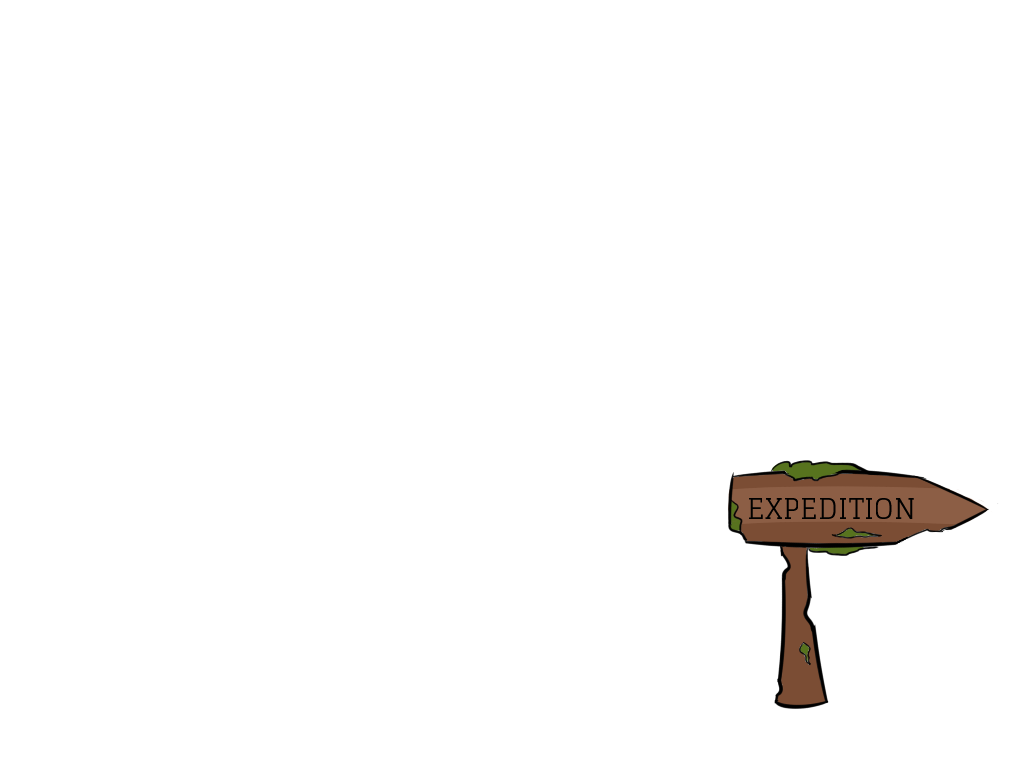
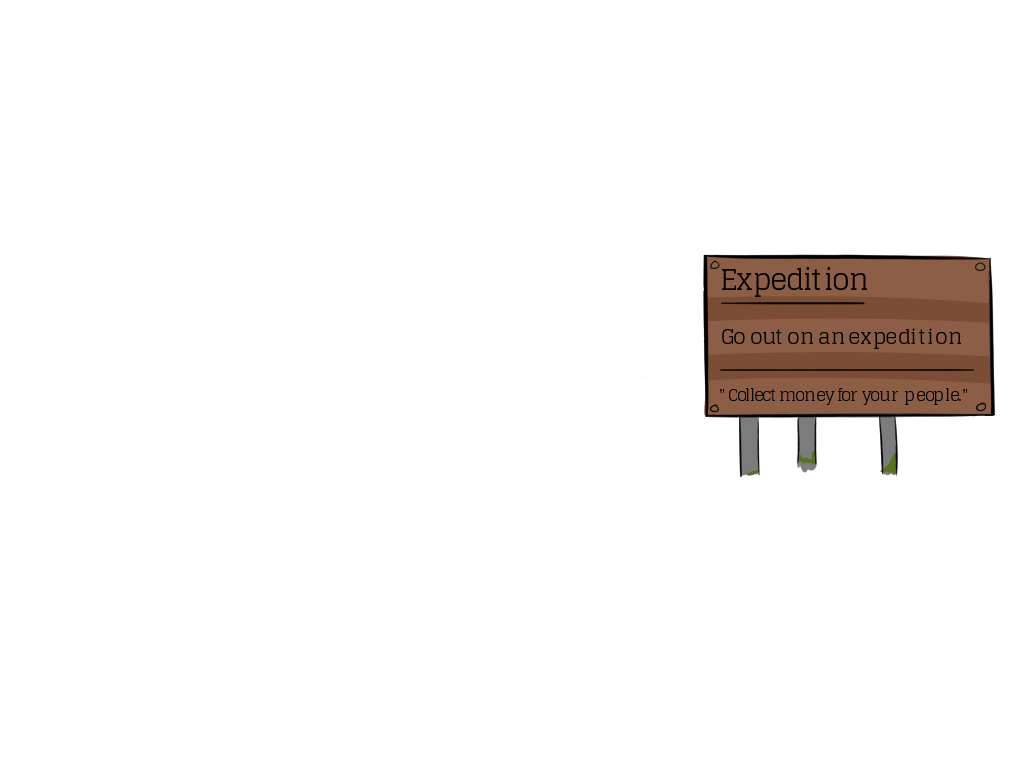
buttons design include

Changed region(s): [[0.6875, 0.3125, 0.9688, 0.9375]]

diff --git a/village.py b/village.py
@@ -37,7 +37,7 @@ class village(object):
     def minusAir(self):
         self.timerAir = False
         if self.air > 0:
-            self.air -= round(self.population/5)
+            self.air -= int(self.population/5)
         else:
             self.lose = True
 
@@ -47,7 +47,7 @@ class village(object):
             self.population += 1
     
     def plusGold(self):
-        self.gold += round(self.population/4)
+        self.gold += int(self.population/4)
         self.timerGold = False
 
     ###### FUNCTIONS ######
@@ -80,19 +80,17 @@ class village(object):
                 img = pygame.image.load("images/air_purifier_sign.png")
                 self.gameDisplay.blit(img, (0, 0))
 
-            elif action == "menu":
-                img = pygame.image.load("images/air_purifier_sign.png")
-                self.gameDisplay.blit(img, (0, 0))
-                
             elif action == "upgrades":
-                img = pygame.image.load("images/air_purifier_sign.png")
+                img = pygame.image.load("images/town_upgrades_sign.png")
                 self.gameDisplay.blit(img, (0, 0))
 
             elif action == "skills":
-                img = pygame.image.load("images/air_purifier_sign.png")
+                img = pygame.image.load("images/skills_sign.png")
                 self.gameDisplay.blit(img, (0, 0))
 
-            #elif action == "expedition":
+            elif action == "expedition":
+                img = pygame.image.load("images/expedition_sign.png")
+                self.gameDisplay.blit(img, (0, 0))
 
             elif action == "boots":
                 img = pygame.image.load("images/boots_sign.png")
@@ -173,12 +171,12 @@ class village(object):
     def draw(self):
         """Affiche le menu du village"""
 
-        self.gameDisplay.fill(white) # a changer par l'image de background
-
-        ## Titre en haut
-        self.textDisplay("Village", black, 30, (self.screenWidth/2), (self.screenHeight/15))
+        img = pygame.image.load("images/background_image.png")
+        self.gameDisplay.blit(img, (0, 0))
 
         ####### RESSOURCES #######
+        img = pygame.image.load("images/resources.png")
+        self.gameDisplay.blit(img, (0, 0))
         ## Air
         self.textDisplay("Air " + str(self.air) + " / " + str(self.airTank), black, 30, 100, 20)
 
@@ -186,28 +184,30 @@ class village(object):
         self.textDisplay("Gold " + str(self.gold), black, 30, 85, 55)
 
         ## Population
+        img = pygame.image.load("images/population.png")
+        self.gameDisplay.blit(img, (0, 0))
         self.textDisplay("Population " + str(self.population) + " / " + str(self.populationTank), black, 30, 870, 20) 
         
         ####### 
 
-        ####### CONVERT GOLD TO AIR #######
-        img = pygame.image.load("images/air_converter.png")
+        ####### GENERAL ####### 
+        img = pygame.image.load("images/town_name.png")
         self.gameDisplay.blit(img, (0, 0))
-        img = pygame.image.load("images/expedition_sign.png")
-        self.gameDisplay.blit(img, (0, 0))
+        #######
 
-        x = 80 
-        y = 432
+        ####### CONVERT GOLD TO AIR #######
+        x = 96 
+        y = 430
         buttonWidth = 192
         buttonHeight = 32
         y2 = y+(buttonHeight+16)
         y3 = y+(buttonHeight+16)*2
 
-        img = pygame.image.load("images/gold.png")
-        self.gameDisplay.blit(img, (85, 352))
+        #img = pygame.image.load("images/gold.png")
+        #self.gameDisplay.blit(img, (85, 352))
 
-        img = pygame.image.load("images/airBottle.png")
-        self.gameDisplay.blit(img, (180, 352))
+        #img = pygame.image.load("images/airBottle.png")
+        #self.gameDisplay.blit(img, (180, 352))
 
         self.button(x, y, buttonWidth, buttonHeight, green, bright_green, "goldToAir1")
         self.button(x, y2, buttonWidth, buttonHeight, green, bright_green, "goldToAir10")
@@ -225,13 +225,16 @@ class village(object):
             self.button(x, y2, buttonWidth, buttonHeight, red, red)
             self.button(x, y3, buttonWidth, buttonHeight, red, red)
 
+        img = pygame.image.load("images/air_converter.png")
+        self.gameDisplay.blit(img, (0, 0))
+
         self.textDisplay("500 -> 1", black, 20, (x+(buttonWidth/2)), (y+(buttonHeight/2))) 
         self.textDisplay("5000 -> 10", black, 20, (x+(buttonWidth/2)), (y2+(buttonHeight/2))) 
-        self.textDisplay("MAX", black, 20, (x+(buttonWidth/2)), (y3+(buttonHeight/2))) 
+        self.textDisplay("MAX", black, 20, (x+(buttonWidth/2)), (y3+(buttonHeight/2)))
         #######
 
         ####### SHOP UPGRADE #######
-        x = 400
+        x = 416
         y = 320
         buttonWidth = 224
         buttonHeight = 80
@@ -239,55 +242,59 @@ class village(object):
         y3 = y+(buttonHeight+32)*2
 
         if self.menu:
+            self.button(x, y2, buttonWidth, buttonHeight, green, bright_green, "upgrades")
+            self.textDisplay("Town upgrades", black, 20, (x+(buttonWidth/2)), (y+(buttonHeight/2)) ) 
+            
+            self.button(x, y, buttonWidth, buttonHeight, green, bright_green, "skills")
+            self.textDisplay("Skills", black, 20, (x+(buttonWidth/2)), (y2+(buttonHeight/2)) )
+
             img = pygame.image.load("images/town_hall.png")
             self.gameDisplay.blit(img, (0, 0))
 
-            self.button(x, y, buttonWidth, buttonHeight, green, bright_green, "upgrades")
-            self.textDisplay("Town upgrades", black, 20, (x+(buttonWidth/2)), (y+(buttonHeight/2)) ) 
-            
-            self.button(x, y2, buttonWidth, buttonHeight, green, bright_green, "skills")
-            self.textDisplay("Skills", black, 20, (x+(buttonWidth/2)), (y2+(buttonHeight/2)) )
-
         elif self.upgrades:
-            img = pygame.image.load("images/town_upgrades.png")
-            self.gameDisplay.blit(img, (0, 0))
-
-            self.button(x-48, y-64, 32, 32, (200, 200, 200), (100, 100, 100), "menu")
+            self.button(388, 222, 61, 66, (200, 200, 200), (100, 100, 100), "menu")
 
             self.button(x, y, buttonWidth, buttonHeight, green, bright_green, "house")
             if self.gold < PRICE_HOUSE:
                 self.button(x, y, buttonWidth, buttonHeight, (100, 100, 100), (100, 100, 100) )
             self.textDisplay("House (-2000)", black, 20, (x+(buttonWidth/2)), (y+(buttonHeight/3)) )
 
-            self.button(x, y2, buttonWidth, buttonHeight, green, bright_green, "purifier")
+            self.button(x, y3, buttonWidth, buttonHeight, green, bright_green, "purifier")
             if self.gold < PRICE_PURIFIER:
-                self.button(x, y2, buttonWidth, buttonHeight, (100, 100, 100), (100, 100, 100) )
+                self.button(x, y3, buttonWidth, buttonHeight, (100, 100, 100), (100, 100, 100) )
             self.textDisplay("Air purifier", black, 20, (x+(buttonWidth/2)), (y2+(buttonHeight/3)) )
 
-            #### FAIRE LE AIR TANK ####
-            self.button(x, y3, buttonWidth, buttonHeight, green, bright_green, "airTank")
+            self.button(x, y2, buttonWidth, buttonHeight, green, bright_green, "airTank")
             if self.gold < PRICE_AIR_TANK:
-                self.button(x, y3, buttonWidth, buttonHeight, (100, 100, 100), (100, 100, 100) )
+                self.button(x, y2, buttonWidth, buttonHeight, (100, 100, 100), (100, 100, 100) )
             self.textDisplay("Air tank", black, 20, (x+(buttonWidth/2)), (y3+(buttonHeight/3)) )
 
-        elif self.skills:
-            img = pygame.image.load("images/skills.png")
+            img = pygame.image.load("images/town_upgrades.png")
             self.gameDisplay.blit(img, (0, 0))
 
-            self.button(x-48, y-64, 32, 32, (200, 200, 200), (100, 100, 100), "menu")
+        elif self.skills:
+            self.button(388, 222, 61, 66, (200, 200, 200), (100, 100, 100), "menu")
 
             self.button(x, y, buttonWidth, buttonHeight, green, bright_green, "boots")
             self.textDisplay("Courir", black, 20, (x+(buttonWidth/2)), (y+(buttonHeight/3)) )
 
-            self.button(x, y2, buttonWidth, buttonHeight, green, bright_green)
-            self.textDisplay("Cape", black, 20, (x+(buttonWidth/2)), (y2+(buttonHeight/3)) )
+            #self.button(x, y2, buttonWidth, buttonHeight, green, bright_green)
+            #self.textDisplay("Cape", black, 20, (x+(buttonWidth/2)), (y2+(buttonHeight/3)) )
 
+            img = pygame.image.load("images/skills.png")
+            self.gameDisplay.blit(img, (0, 0))
             
             
         ####### 
-        ####### EXPEDITION #######
-        self.button(700, 600, buttonWidth, buttonHeight, green, bright_green, "expedition")
 
+        ####### EXPEDITION #######
+        x = 731
+        y = 469
+        buttonWidth = 990-731
+        buttonHeight = 547-469
+        self.button(731, 469, buttonWidth, buttonHeight, green, bright_green, "expedition")
+        img = pygame.image.load("images/expedition.png")
+        self.gameDisplay.blit(img, (0, 0))
         #######
 
         pygame.display.update()
